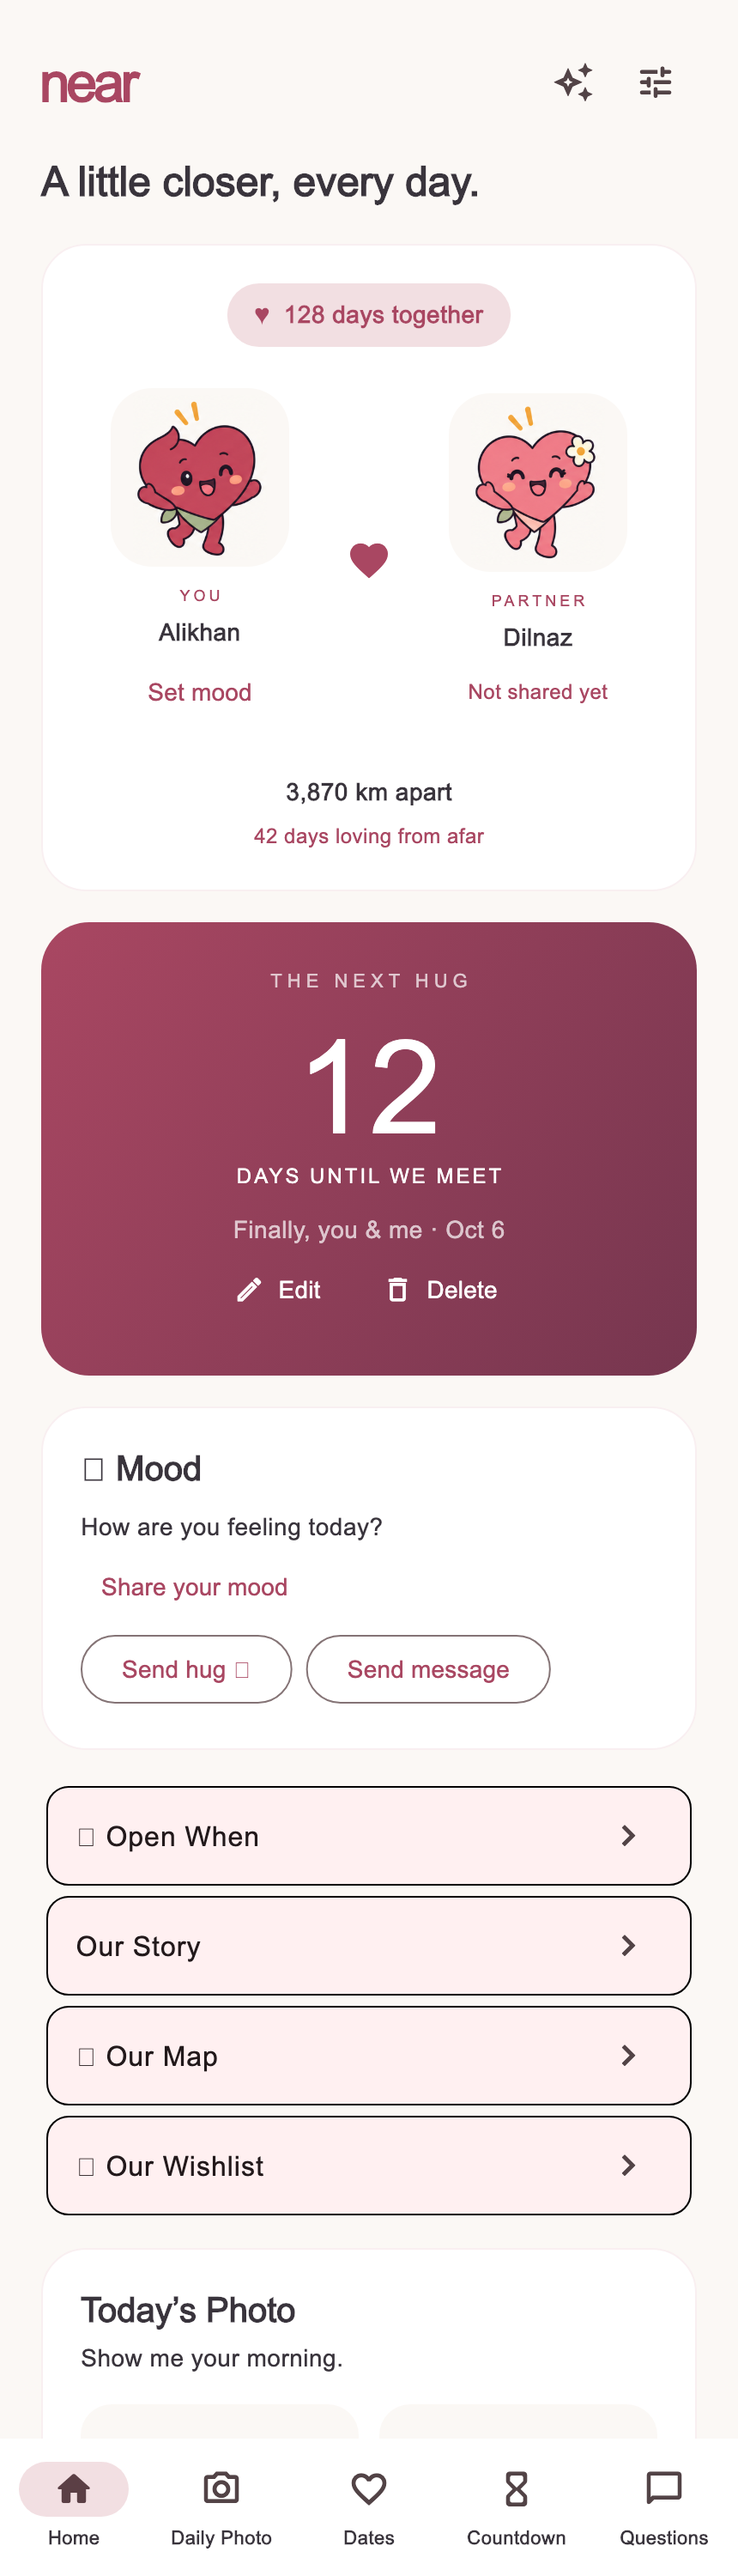
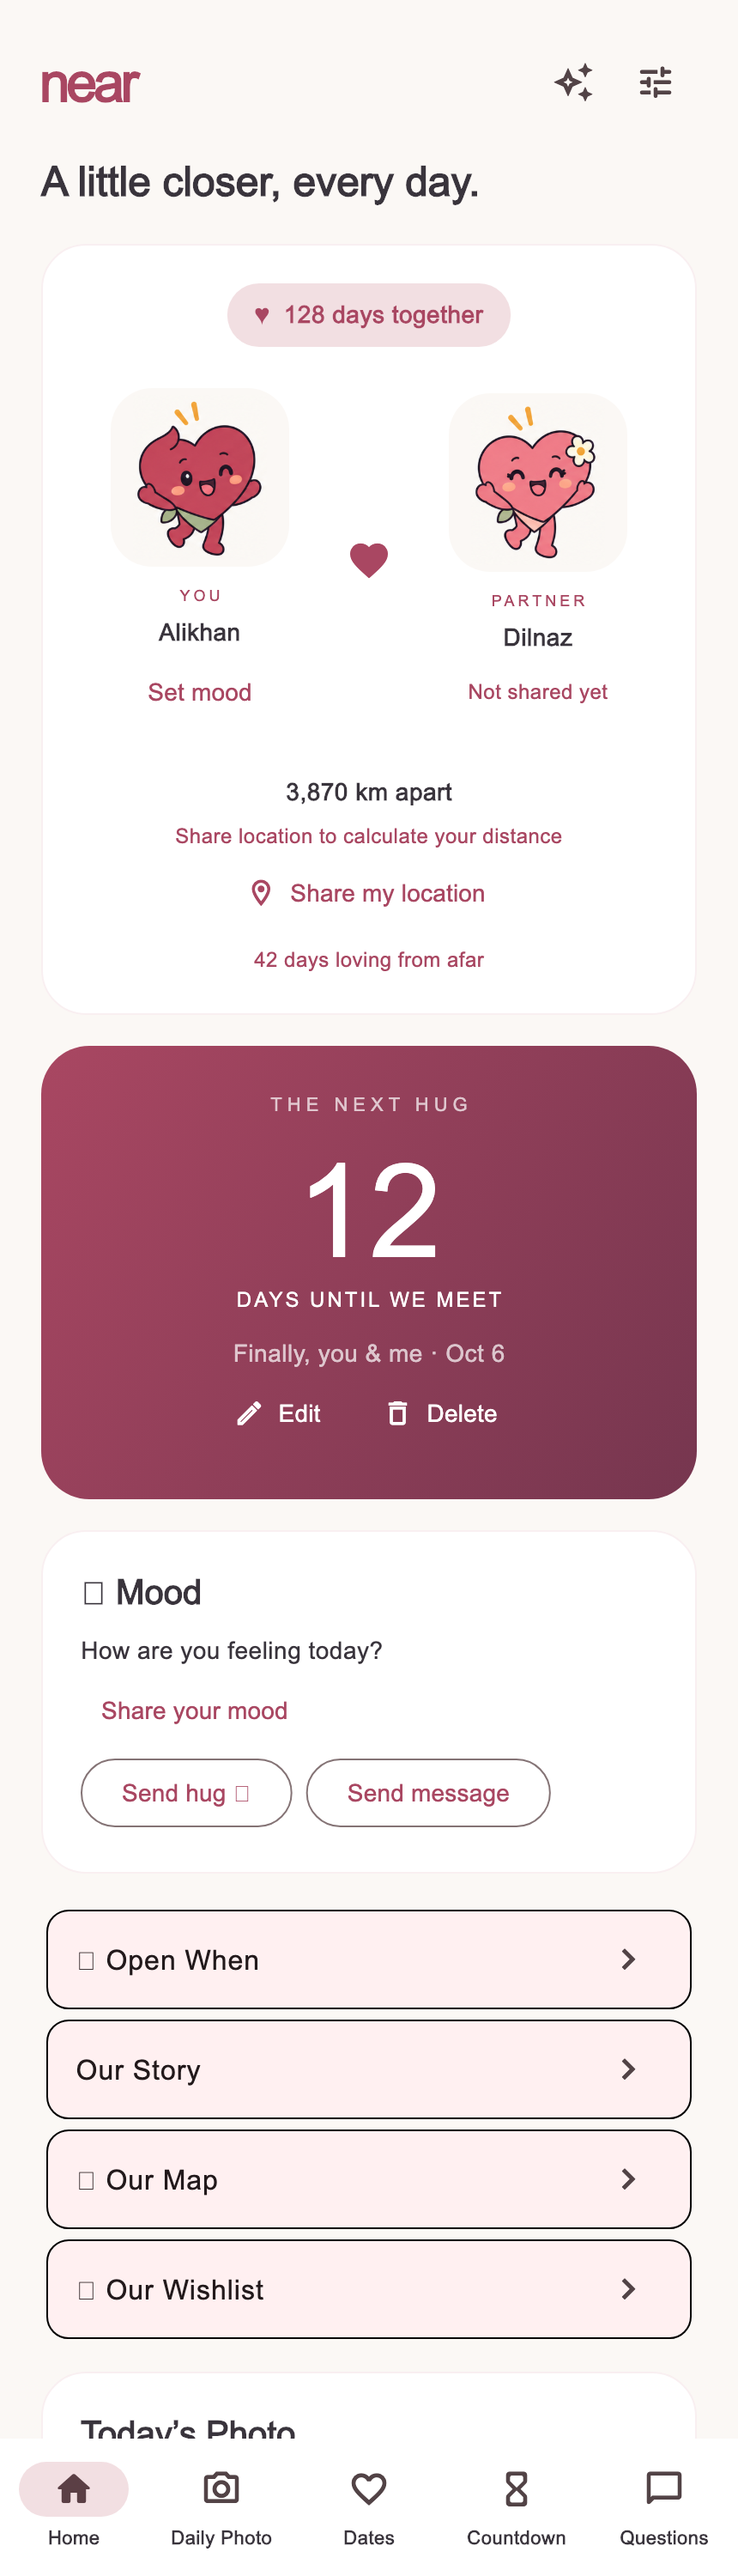
Updated location settings

diff --git a/mobile/test/location_sharing_test.dart b/mobile/test/location_sharing_test.dart
@@ -36,6 +36,7 @@ class LocationApi extends Api {
       if (users[key]['id'] == me['id']) users[key] = {...users[key], ...data};
     }
   }
+
   @override
   Future<Map<String, dynamic>> get(String path) async {
     if (path == 'me/') return me;
@@ -49,17 +50,20 @@ class LocationApi extends Api {
 
 void main() {
   test('Shared distance uses both coordinates and handles missing partner', () {
-    expect(sharedDistanceKm({'latitude': 43.2389, 'longitude': 76.8897},
-        {'latitude': 51.1694, 'longitude': 71.4491}), closeTo(972, 2));
+    expect(
+        sharedDistanceKm({'latitude': 43.2389, 'longitude': 76.8897},
+            {'latitude': 51.1694, 'longitude': 71.4491}),
+        closeTo(972, 2));
     expect(sharedDistanceKm({'latitude': 43.2, 'longitude': 76.8}, {}), isNull);
   });
 
   testWidgets('Home shares current location and replaces saved distance',
       (tester) async {
     final fixture = fixtures.fixture();
-    fixture.home!['couple']['user_2'].addAll(
-        {'latitude': 51.1694, 'longitude': 71.4491});
-    final api = LocationApi(fixture.me, fixture.home!);
+    fixture.home!['couple']['user_2']
+        .addAll({'latitude': 51.1694, 'longitude': 71.4491});
+    final api = LocationApi(Map<String, dynamic>.from(fixture.me!),
+        Map<String, dynamic>.from(fixture.home!));
     final state = AppState(api)
       ..me = fixture.me
       ..home = fixture.home
@@ -81,7 +85,8 @@ void main() {
   testWidgets('Permission failure is explained without changing distance',
       (tester) async {
     final fixture = fixtures.fixture();
-    final api = LocationApi(fixture.me, fixture.home!);
+    final api = LocationApi(Map<String, dynamic>.from(fixture.me!),
+        Map<String, dynamic>.from(fixture.home!));
     final state = AppState(api)
       ..me = fixture.me
       ..home = fixture.home

diff --git a/mobile/macos/Flutter/GeneratedPluginRegistrant.swift b/mobile/macos/Flutter/GeneratedPluginRegistrant.swift
@@ -9,6 +9,8 @@ import audioplayers_darwin
 import file_picker
 import file_selector_macos
 import flutter_secure_storage_macos
+import geolocator_apple
+import package_info_plus
 import video_player_avfoundation
 
 func RegisterGeneratedPlugins(registry: FlutterPluginRegistry) {
@@ -16,5 +18,7 @@ func RegisterGeneratedPlugins(registry: FlutterPluginRegistry) {
   FilePickerPlugin.register(with: registry.registrar(forPlugin: "FilePickerPlugin"))
   FileSelectorPlugin.register(with: registry.registrar(forPlugin: "FileSelectorPlugin"))
   FlutterSecureStoragePlugin.register(with: registry.registrar(forPlugin: "FlutterSecureStoragePlugin"))
+  GeolocatorPlugin.register(with: registry.registrar(forPlugin: "GeolocatorPlugin"))
+  FPPPackageInfoPlusPlugin.register(with: registry.registrar(forPlugin: "FPPPackageInfoPlusPlugin"))
   VideoPlayerPlugin.register(with: registry.registrar(forPlugin: "VideoPlayerPlugin"))
 }

diff --git a/mobile/lib/relationship_screens.dart b/mobile/lib/relationship_screens.dart
@@ -722,9 +722,8 @@ class OurMap extends StatelessWidget {
           child: const Text('Enter coordinates manually')),
       if (me['latitude'] != null)
         TextButton(
-            onPressed: state.busy
-                ? null
-                : () => state.run(state.stopSharingLocation),
+            onPressed:
+                state.busy ? null : () => state.run(state.stopSharingLocation),
             child: const Text('Stop sharing location')),
       ...[
         const Text('Our places around the world'),

diff --git a/mobile/test/rituals_test.dart b/mobile/test/rituals_test.dart
@@ -104,7 +104,8 @@ void main() {
     await tester.pumpWidget(
         RepaintBoundary(key: key, child: app(fixture(), const MainShell())));
     await tester.runAsync(() => precacheImage(
-        const AssetImage('assets/mascots/hearts-moods.png'), key.currentContext!));
+        const AssetImage('assets/mascots/hearts-moods.png'),
+        key.currentContext!));
     await tester.pumpAndSettle();
     expect(tester.takeException(), isNull);
     final boundary =

diff --git a/mobile/test/relationship_test.dart b/mobile/test/relationship_test.dart
@@ -7,6 +7,7 @@ import 'package:flutter/services.dart';
 import 'package:flutter_test/flutter_test.dart';
 import 'package:near/api.dart';
 import 'package:near/app_state.dart';
+import 'package:near/distance.dart';
 import 'package:near/relationship_screens.dart';
 import 'rituals_test.dart' as fixtures;
 

diff --git a/mobile/windows/flutter/generated_plugin_registrant.cc b/mobile/windows/flutter/generated_plugin_registrant.cc
@@ -9,6 +9,7 @@
 #include <audioplayers_windows/audioplayers_windows_plugin.h>
 #include <file_selector_windows/file_selector_windows.h>
 #include <flutter_secure_storage_windows/flutter_secure_storage_windows_plugin.h>
+#include <geolocator_windows/geolocator_windows.h>
 
 void RegisterPlugins(flutter::PluginRegistry* registry) {
   AudioplayersWindowsPluginRegisterWithRegistrar(
@@ -17,4 +18,6 @@ void RegisterPlugins(flutter::PluginRegistry* registry) {
       registry->GetRegistrarForPlugin("FileSelectorWindows"));
   FlutterSecureStorageWindowsPluginRegisterWithRegistrar(
       registry->GetRegistrarForPlugin("FlutterSecureStorageWindowsPlugin"));
+  GeolocatorWindowsRegisterWithRegistrar(
+      registry->GetRegistrarForPlugin("GeolocatorWindows"));
 }

diff --git a/README.md b/README.md
@@ -127,3 +127,7 @@ DRF throttling по умолчанию использует локальный c
 Fun, Deep, Future и Random теперь выбирают вопрос дня для пары, а не просто показывают текущую категорию. Выбор доступен до первого ответа; после него приложение объясняет, почему смена закрыта. Выбранный вопрос виден обоим партнёрам и сохраняется в архиве. Для этого добавлена миграция `0006`.
 
 На Home и в Countdown добавлены Edit/Delete. Форма редактирует название, место, тип и дату существующего события без создания дубликатов. Our space → Next meeting также открывает редактирование текущей встречи. После удаления автоматически показывается следующая встреча, если она есть.
+
+### Шаринг геолокации и расстояние
+
+В карточке пары на Home доступна кнопка `Share my location`. Приложение запрашивает доступ к геолокации только при нажатии, сохраняет координаты в приватном пространстве пары и, когда оба партнёра поделились позицией, заменяет ручное значение расстояния на расчёт по координатам. Повторное нажатие обновляет позицию. В `Our Map` доступны тот же системный шаринг, ручной ввод координат и отключение шаринга. Фоновое отслеживание не используется.

diff --git a/docs/VALIDATION.md b/docs/VALIDATION.md
@@ -23,3 +23,10 @@
 - PostgreSQL: все 27 тестов прошли. Проверены общий выбор категории, изоляция пар, сохранение выбранного вопроса в архиве, отказ устаревшему ответу, редактирование/удаление событий обоими партнёрами и запрет доступа другой пары.
 - `makemigrations --check --dry-run`: изменений без миграций нет. Добавлена миграция `0006_dailyquestionchoice`.
 - Миграция `0006` применена к локальной PostgreSQL; локальный API обновлён. iOS Simulator debug успешно собран из временной копии и установлен в открытый симулятор.
+
+## Шаринг геолокации
+
+- Добавлен системный запрос геолокации при нажатии `Share my location`; фонового отслеживания нет.
+- Home вычисляет расстояние по координатам обоих партнёров и показывает его в основной карточке вместо сохранённого вручную числа. До шаринга второго партнёра отображается понятное ожидание.
+- Добавлены разрешения iOS `NSLocationWhenInUseUsageDescription` и Android `ACCESS_COARSE_LOCATION` / `ACCESS_FINE_LOCATION`.
+- Отдельные тесты проверяют расчёт расстояния, успешный шаринг и отказ в разрешении. Полный набор из 25 мобильных тестов прошёл; `flutter analyze --no-pub` не нашёл замечаний.
